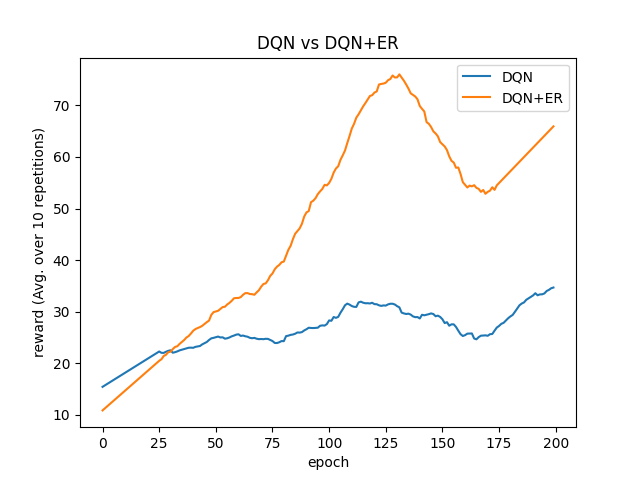
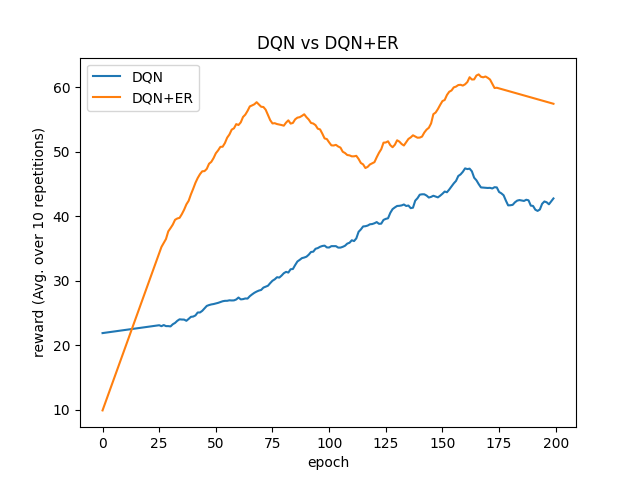
some experiment data

diff --git a/dqn.py b/dqn.py
@@ -1,5 +1,6 @@
 import os
 import gym
+import copy
 import argparse
 import numpy as np
 
@@ -39,9 +40,11 @@ def dqn_training(env,
     """
 
     rewards = []
+    max_reward = 0
     state_shape = env.observation_space.shape
     n_actions = env.action_space.n
     agent = DQNAgent(state_shape, n_actions, lr, gamma, use_target)
+    best_agent = copy.deepcopy(agent)
     replay_buffer = ReplayBuffer(replay_buffer_size)
 
     for e in range(epochs):
@@ -88,10 +91,15 @@ def dqn_training(env,
         state_next_batch = np.array(state_next_batch)
         agent.update(state_batch, action_batch, reward_batch,
                      state_next_batch, done_batch)
-        if e%10 == 0:
+        if e%100 == 0:
             print(f'Reward gained in epoch {e}: {reward_sum}')
         rewards += [reward_sum]
-    return agent, rewards
+        if reward_sum > max_reward:
+            max_reward = reward_sum
+            best_agent = copy.deepcopy(agent)
+        if max_reward == 500:
+            break
+    return best_agent, rewards
 
 
 def evaluation(env, agent, epochs=20):
@@ -105,8 +113,8 @@ def evaluation(env, agent, epochs=20):
             observation_next, reward, done, _ = env.step(action)
             reward_sum += reward
             observation = observation_next
-            # env.render()
-        # print(f'Reward gained by the agent:{reward_sum}')
+            env.render()
+        print(f'Reward gained by the agent:{reward_sum}')
         rewards += [reward_sum]
     return rewards
 
@@ -126,6 +134,7 @@ def experiment(epochs, lr, gamma, policy, epsilon, temp, use_replay, use_target,
                                   replay_buffer_size=replay_buffer_size,
                                   replay_batch_size=replay_batch_size,
                                   target_update_interval=target_update_epoch)
+    print("Max reward gained during training: ", max(rewards))
     rewards += evaluation(env, agent)
     env.close()
     return rewards
@@ -139,14 +148,16 @@ if __name__ == "__main__":
                         help="discount")
     parser.add_argument("-s", "--strategy", type=str, default="egreedy",
                         help="Exploration strategy (default: egreedy)")
-    parser.add_argument("-e", "--epsilon", type=float, default=0.2,
+    parser.add_argument("-e", "--epsilon", type=float, default=0.4,
                         help="epsilon for e-greedy")
     parser.add_argument("-c", "--tempture", type=float, default=1.0,
                         help="tempture for softmax")
+    parser.add_argument("-a", "--average", action="store_true",
+                        help="Whether to repeat expeiment for average. (default: False)")
     parser.add_argument("-r", "--replay", action="store_true",
-                        help="Whether to enable experience replay (default: False)")
+                        help="Whether to enable experience replay. (default: False)")
     parser.add_argument("-t", "--target_network", action="store_true",
-                        help="Whether to enable target network (default: False)")
+                        help="Whether to enable target network. (default: False)")
 
     args = parser.parse_args()
     if args.replay:
@@ -154,7 +165,7 @@ if __name__ == "__main__":
     if args.target_network:
         print("target network turned on")
 
-    epochs = 300
+    epochs = 501
     lr = args.lr
     gamma = args.gamma
 
@@ -167,14 +178,15 @@ if __name__ == "__main__":
     target_update_epoch = 3
 
     rewards = []
-    for i in range(10):
+    times = 10 if args.average else 1
+    for i in range(times):
         print(f"======================={i}=======================")
         rewards += [experiment(epochs, lr, gamma, policy, epsilon, temp,
                                args.replay, args.target_network,
                                replay_buffer_size, replay_batch_size,
                                target_update_epoch)]
-    path = "data/"+str(lr)+"_"+str(gamma)+"_"+policy + \
-        "_"+str(epsilon)+"_"+str(temp)+"_"+str(replay_buffer_size) + \
-        "_"+str(replay_batch_size)+"_"+str(target_update_epoch) + \
-        "_"+str(args.replay)+"_"+str(args.target_network)
-    np.save(path+".npy", np.array(rewards))
+    # path = "data/"+str(lr)+"_"+str(gamma)+"_"+policy + \
+    #     "_"+str(epsilon)+"_"+str(temp)+"_"+str(replay_buffer_size) + \
+    #     "_"+str(replay_batch_size)+"_"+str(target_update_epoch) + \
+    #     "_"+str(args.replay)+"_"+str(args.target_network)
+    # np.save(path+".npy", np.array(rewards))

diff --git a/plot.py b/plot.py
@@ -39,21 +39,21 @@ name = [
     "0.4_0.8_egreedy_0.2_1.0_20000_100_15_False_False.npy",
     "0.1_1.0_egreedy_0.2_1.0_20000_100_15_False_False.npy",
     "0.1_0.8_egreedy_0.05_1.0_20000_100_15_False_False.npy",
-    "0.1_0.8_egreedy_0.4_1.0_20000_100_15_False_False.npy",
+    "0.1_0.8_egreedy_0.4_1.0_20000_100_3_False_False.npy",
     "0.1_0.8_softmax_0.2_0.1_20000_100_15_False_False.npy",
     "0.1_0.8_softmax_0.2_1.0_20000_100_15_False_False.npy",
     "0.1_0.8_softmax_0.2_10.0_20000_100_15_False_False.npy",
-    "0.1_0.8_egreedy_0.2_1.0_20000_100_15_True_False.npy",
-    "0.1_0.8_egreedy_0.2_1.0_20000_100_15_False_True.npy",
-    "0.1_0.8_egreedy_0.2_1.0_20000_100_15_True_True.npy",
+    "0.1_0.8_egreedy_0.4_1.0_20000_100_3_True_False.npy",
+    "0.1_0.8_egreedy_0.4_1.0_20000_100_3_False_True.npy",
+    "0.1_0.8_egreedy_0.4_1.0_20000_100_3_True_True.npy",
 ]
 
 for i in range(len(name)):
     name[i] = "data/" + name[i]
 
 # learning rates
-rewards = curve(name[0])
-plt.plot(rewards, label="$\\alpha$=0.1")
+rewards = curve(name[5])
+plt.plot(rewards, label="$\\alpha$=0.1", color="k", linestyle="--")
 rewards = curve(name[1])
 plt.plot(rewards, label="$\\alpha$=0.2")
 rewards = curve(name[2])
@@ -66,8 +66,8 @@ plt.savefig("results/lr.png")
 plt.clf()
 
 # gamma
-rewards = curve(name[0])
-plt.plot(rewards, label="$\gamma$=0.8")
+rewards = curve(name[5])
+plt.plot(rewards, label="$\gamma$=0.8", color="k", linestyle="--")
 rewards = curve(name[3])
 plt.plot(rewards, label="$\gamma$=1")
 plt.xlabel("epoch")
@@ -81,7 +81,7 @@ plt.clf()
 rewards = curve(name[4])
 plt.plot(rewards, label="$\epsilon$=0.05")
 rewards = curve(name[0])
-plt.plot(rewards, label="$\epsilon$=0.2")
+plt.plot(rewards, label="$\epsilon$=0.2", color="k", linestyle="--")
 rewards = curve(name[5])
 plt.plot(rewards, label="$\epsilon$=0.4")
 plt.xlabel("epoch")
@@ -95,18 +95,18 @@ plt.clf()
 rewards = curve(name[6])
 plt.plot(rewards, label="$\\tau$=0.1")
 rewards = curve(name[7])
-plt.plot(rewards, label="$\\tau$=1.0")
+plt.plot(rewards, label="$\\tau$=1.0", color="k", linestyle="--")
 rewards = curve(name[8])
 plt.plot(rewards, label="$\\tau$=10.0")
 plt.xlabel("epoch")
 plt.ylabel("reward (Avg. over 10 repetitions)")
 plt.title("Influence of $\\tau$ of softmax on DQN.")
 plt.legend()
-plt.savefig("results/tempture.png")
+plt.savefig("results/temperature.png")
 plt.clf()
 
 # strategies
-rewards = curve(name[0])
+rewards = curve(name[5])
 plt.plot(rewards, label="$\epsilon$-greedy")
 rewards = curve(name[7])
 plt.plot(rewards, label="softmax")
@@ -118,7 +118,7 @@ plt.savefig("results/strategies.png")
 plt.clf()
 
 # +ER
-rewards = df_curve(name[0])
+rewards = df_curve(name[5])
 y = rewards.mean(axis=0)
 plt.plot(y[:200], label="DQN")
 rewards = df_curve(name[9])
@@ -133,7 +133,7 @@ plt.clf()
 
 
 # +TN
-rewards = df_curve(name[0])
+rewards = df_curve(name[5])
 mstd = rewards.std(axis=0)
 y = rewards.mean(axis=0)
 plt.plot(y[:200], label="DQN")
@@ -152,17 +152,22 @@ plt.savefig("results/TN.png")
 plt.clf()
 
 # +TN
-rewards = df_curve(name[0])
-mstd = rewards.std(axis=0)
+rewards = df_curve(name[5])
 y = rewards.mean(axis=0)
 plt.plot(y[:200], label="DQN")
-# plt.fill_between(list(range(200)), (y-mstd)[:200], (y+mstd)[:200], alpha=0.2)
+
+rewards = df_curve(name[9])
+y = rewards.mean(axis=0)
+plt.plot(y, label="DQN+ER")
+
+rewards = df_curve(name[10])
+y = rewards.mean(axis=0)
+plt.plot(y, label="DQN+TN")
 
 rewards = df_curve(name[11])
-mstd = rewards.std(axis=0)
 y = rewards.mean(axis=0)
 plt.plot(y, label="DQN+ER+TN")
-# plt.fill_between(list(range(rewards.shape[1])), y-mstd, y+mstd, alpha=0.2)
+
 plt.xlabel("epoch")
 plt.ylabel("reward (Avg. over 10 repetitions)")
 plt.title("DQN vs DQN+ER+TN")
